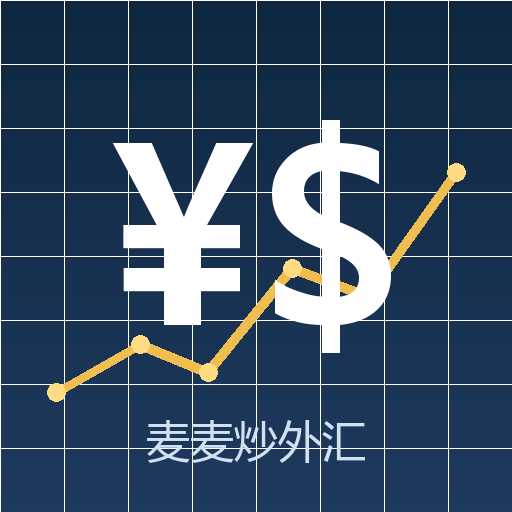
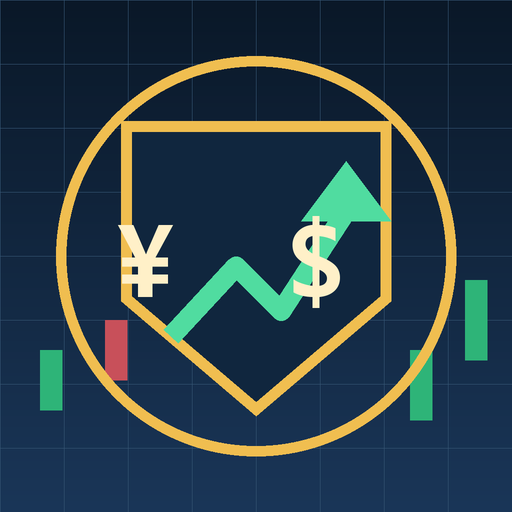
feat: 麦麦外汇战士 v0.4.0 - 改名与原创封面图标

diff --git a/plugin.py b/plugin.py
@@ -1,4 +1,4 @@
-"""麦麦炒外汇 — 插件主入口（P0）。
+"""麦麦外汇战士 — 插件主入口（P0）。
 
 职责：
 - 生命周期 on_load / on_unload / on_config_update；
@@ -40,11 +40,11 @@ from .market_clock import now_utc
 from .quotes import QuoteSource
 from .scheduler import TradingEngine
 
-PLUGIN_VERSION = "0.3.4"
+PLUGIN_VERSION = "0.4.0"
 
 
 class MaiFxSimPlugin(MaiBotPlugin):
-    """麦麦炒外汇插件实例。"""
+    """麦麦外汇战士插件实例。"""
 
     config_model = MaiFxConfig
 
@@ -75,7 +75,7 @@ class MaiFxSimPlugin(MaiBotPlugin):
             await self._start_services()
         engine = self._engine
         self.ctx.logger.info(
-            "麦麦炒外汇 %s 已加载（config_version=%s，账户=%s，自动交易=%s，品种=%d，宿主人设=%s，群聊上下文=%s，财经日历=%s/%s）",
+            "麦麦外汇战士 %s 已加载（config_version=%s，账户=%s，自动交易=%s，品种=%d，宿主人设=%s，群聊上下文=%s，财经日历=%s/%s）",
             PLUGIN_VERSION,
             CONFIG_VERSION,
             f"{int(self.config.account.initial_balance):,} 元 / {int(self.config.account.leverage)} 倍",
@@ -90,7 +90,7 @@ class MaiFxSimPlugin(MaiBotPlugin):
     async def on_unload(self) -> None:
         async with self._setup_lock:
             await self._stop_services()
-        self.ctx.logger.info("麦麦炒外汇已卸载")
+        self.ctx.logger.info("麦麦外汇战士已卸载")
 
     async def on_config_update(self, scope: str, config_data: dict[str, Any], version: str) -> None:
         del config_data
@@ -99,7 +99,7 @@ class MaiFxSimPlugin(MaiBotPlugin):
         async with self._setup_lock:
             await self._stop_services()
             await self._start_services()
-        self.ctx.logger.info("麦麦炒外汇配置已更新（version=%s），引擎已重建", version)
+        self.ctx.logger.info("麦麦外汇战士配置已更新（version=%s），引擎已重建", version)
 
     # ---------- 服务装配 ----------
 
@@ -388,7 +388,7 @@ class MaiFxSimPlugin(MaiBotPlugin):
 
     @Command(
         "外汇",
-        description="麦麦炒外汇模拟盘：状态/持仓/挂单/行情/保证金/隔夜/帮助；控制命令仅管理员",
+        description="麦麦外汇战士模拟盘：状态/持仓/挂单/行情/保证金/隔夜/帮助；控制命令仅管理员",
         pattern=r"^/(?:外汇|fx)(?:\s+.*)?$",
         timeout_ms=180000,
     )

diff --git a/tests/test_smoke.py b/tests/test_smoke.py
@@ -40,7 +40,7 @@ class PluginContractTest(unittest.TestCase):
 
         self.assertIsInstance(self.plugin, MaiBotPlugin)
         self.assertTrue(callable(self.module.create_plugin))
-        self.assertEqual(self.module.PLUGIN_VERSION, "0.3.4")
+        self.assertEqual(self.module.PLUGIN_VERSION, "0.4.0")
 
     def test_lifecycle_overridden(self):
         from maibot_sdk.plugin import MaiBotPlugin
@@ -52,7 +52,7 @@ class PluginContractTest(unittest.TestCase):
 
     def test_default_config(self):
         config = type(self.plugin).build_default_config()
-        self.assertEqual(config["plugin"]["config_version"], "0.3.4")
+        self.assertEqual(config["plugin"]["config_version"], "0.4.0")
         for section in (
             "plugin", "account", "market", "spread", "orders", "risk",
             "influence", "decision", "swap", "notify", "admin", "calendar", "storage",
@@ -84,7 +84,7 @@ class PluginContractTest(unittest.TestCase):
     def test_config_schema(self):
         schema = type(self.plugin).build_config_schema(
             plugin_id="github.nethielchou.mai-fx-sim",
-            plugin_name="麦麦炒外汇",
+            plugin_name="麦麦外汇战士",
             plugin_version="0.1.0",
         )
         self.assertIsInstance(schema, dict)

diff --git a/config.py b/config.py
@@ -1,4 +1,4 @@
-"""配置模型：麦麦炒外汇（Rev 1.2 口径：虚拟人民币计价 / 10 倍 / 1万单位 / 1,000 货币步长）。
+"""配置模型：麦麦外汇战士（Rev 1.2 口径：虚拟人民币计价 / 10 倍 / 1万单位 / 1,000 货币步长）。
 
 约定：
 - 所有字段必须有默认值（宿主 Runner 首次加载时以此生成 config.toml）。
@@ -8,7 +8,7 @@
 
 from maibot_sdk import Field, PluginConfigBase
 
-CONFIG_VERSION = "0.3.4"
+CONFIG_VERSION = "0.4.0"
 
 
 class PluginSectionConfig(PluginConfigBase):
@@ -214,9 +214,9 @@ class StorageConfig(PluginConfigBase):
 
 
 class MaiFxConfig(PluginConfigBase):
-    """麦麦炒外汇完整配置（宿主按此生成 config.toml）。"""
+    """麦麦外汇战士完整配置（宿主按此生成 config.toml）。"""
 
-    __ui_label__ = "麦麦炒外汇"
+    __ui_label__ = "麦麦外汇战士"
 
     plugin: PluginSectionConfig = Field(default_factory=PluginSectionConfig)
     account: AccountConfig = Field(default_factory=AccountConfig)

diff --git a/report.py b/report.py
@@ -973,7 +973,7 @@ def status(
     quotes = quotes or {}
     equity, margin, floating = _account_metrics(account, positions, quotes, pairs, rates, leverage)
     pending_count = len(list(pending or []))
-    lines = _title("📊 麦麦炒外汇 · 账户概览")
+    lines = _title("📊 麦麦外汇战士 · 账户概览")
     if rates is None:
         lines.extend(_block("⚠ 汇率不可用：净值与维持率暂停估值", "（绝不用假汇率，暂不开新仓）"))
         lines.append("")

diff --git a/tests/test_config_ui.py b/tests/test_config_ui.py
@@ -98,7 +98,7 @@ def make_schema(extra_fields: dict[str, dict] | None = None) -> dict:
             ].update(fields)
     return {
         "plugin_id": "github.nethielchou.mai-fx-sim",
-        "plugin_info": {"name": "麦麦炒外汇", "version": "0.1.0"},
+        "plugin_info": {"name": "麦麦外汇战士", "version": "0.1.0"},
         "sections": sections,
         "layout": {"type": "grid"},
     }

diff --git a/scripts/preflight.py b/scripts/preflight.py
@@ -19,7 +19,7 @@ import sys
 from pathlib import Path
 
 ROOT = Path(__file__).resolve().parents[1]
-EXPECTED_PLUGIN_VERSION = "0.3.4"
+EXPECTED_PLUGIN_VERSION = "0.4.0"
 REQUIRED = [
     "plugin.py", "_manifest.json", "config.py", "config_ui.py", "models.py", "pairs.py",
     "market_clock.py", "quotes.py", "execution_cost.py", "orders.py", "accounting.py",

diff --git a/tests/test_persona_load.py b/tests/test_persona_load.py
@@ -143,7 +143,7 @@ class LoadPersonaTestCase(unittest.IsolatedAsyncioTestCase):
         self.assertNotIn(secret, joined)
 
     def test_plugin_version_is_034(self) -> None:
-        self.assertEqual(_MODULE.PLUGIN_VERSION, "0.3.4")
+        self.assertEqual(_MODULE.PLUGIN_VERSION, "0.4.0")
 
 
 if __name__ == "__main__":

diff --git a/models.py b/models.py
@@ -1,4 +1,4 @@
-"""共享数据模型：麦麦炒外汇 P0。
+"""共享数据模型：麦麦外汇战士 P0。
 
 所有金额/价格一律 Decimal；账本金额以「整数元（int，虚拟人民币）」存储与比较。
 行情仍是真实世界行情（含 USDJPY/USDCNY 换算锚），账户币种为虚拟元。

diff --git a/pairs.py b/pairs.py
@@ -1,4 +1,4 @@
-"""品种规格（PairSpec）与品种解析：麦麦炒外汇 P0。
+"""品种规格（PairSpec）与品种解析：麦麦外汇战士 P0。
 
 职责
 ----

diff --git a/README.md b/README.md
@@ -1,4 +1,4 @@
-# 麦麦炒外汇（mai-fx-sim）
+# 麦麦外汇战士（mai-fx-sim）
 
 > 让麦麦在群聊里用自己的判断，交易一个**本地虚拟外汇账户**。
 > 零售 FX 规则：虚拟人民币计价、默认 10 倍杠杆、1万单位、强制平仓、隔夜利息、点差/滑点。
@@ -6,7 +6,7 @@
 
 ## 当前状态
 
-- 版本：**0.3.4**
+- 版本：**0.4.0**
 - 宿主：MaiBot 1.3.13–1.3.99 / `maibot-plugin-sdk` 2.21.x
 - 账户：虚拟 **10 万元**、杠杆 **10 倍**（1–25 可配）、最小 **1,000 货币**
 - 自动交易默认 **关闭**（`[decision] auto_trade=false`）

diff --git a/CHANGELOG.md b/CHANGELOG.md
@@ -1,5 +1,13 @@
 # 每次改动记录
 
+## [0.4.0] - 2026-11-11
+### Changed
+- 插件显示名改为「麦麦外汇战士」
+- 更换原创封面图标（外汇战士主题：盾牌 + 上升行情 + ¥/$），不包含任何受版权保护的第三方角色素材
+- 描述去掉「零售 FX」日式说法，改为通用中文表述
+### Notes
+- id / 仓库 / author / 许可证均不变；功能无变化
+
 ## [0.3.4] - 2026-11-10
 ### Added
 - **行情卡新增「人民币参考汇率」栏**（用户反馈：看不到人民币汇率）：
